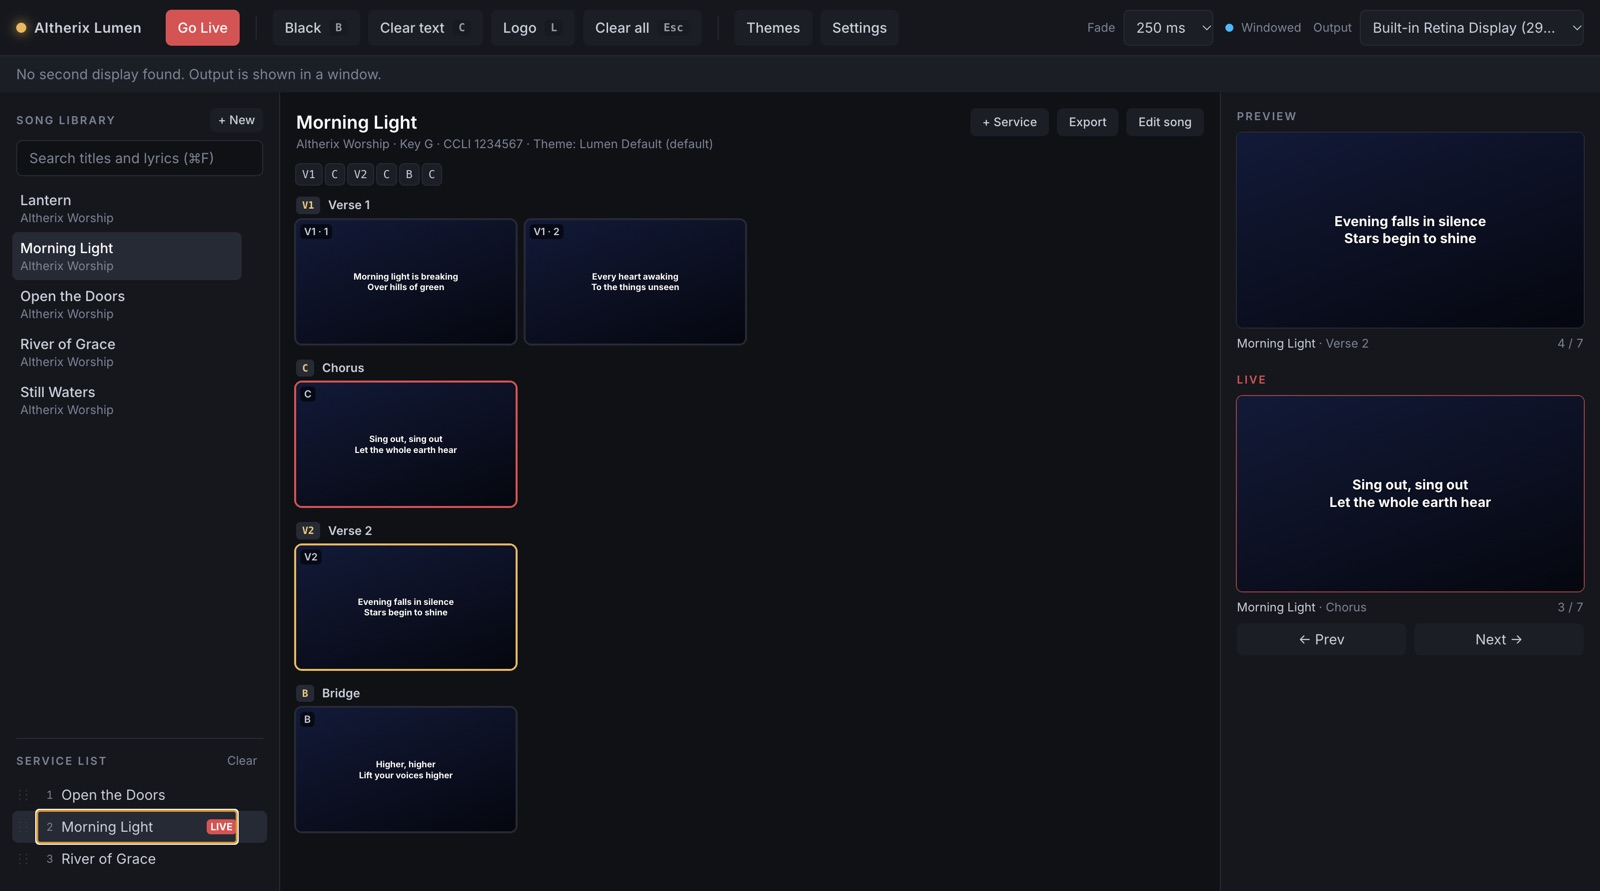
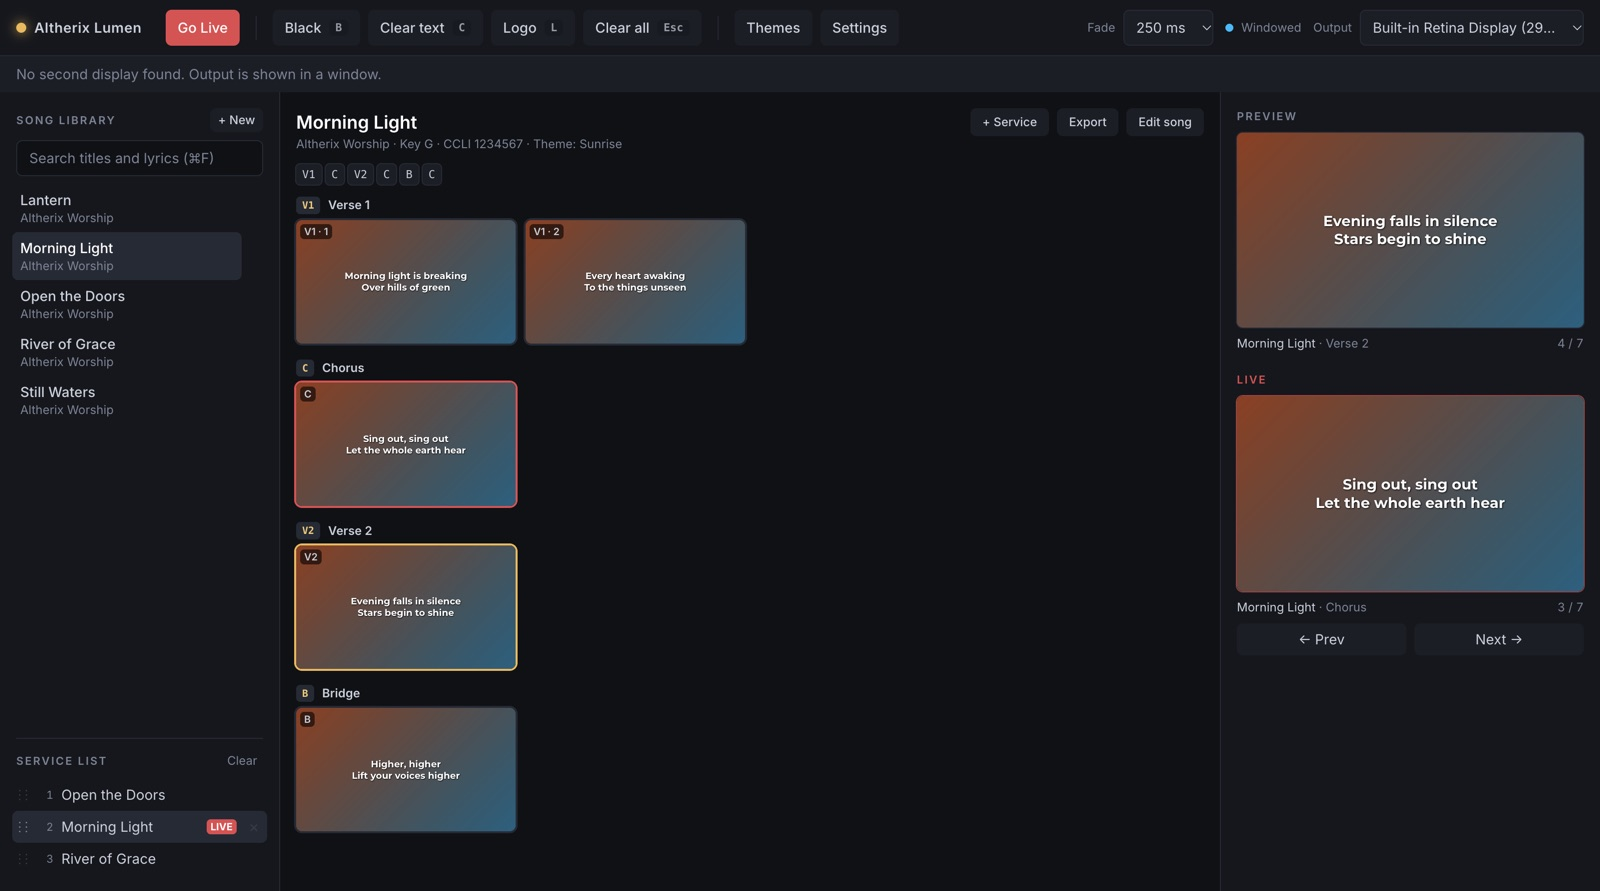
Products: full Lumen section with four screenshots and how a Sunday works

diff --git a/products/index.html b/products/index.html
@@ -124,13 +124,28 @@
       <span class="label">Early access · Download</span>
       <h2 class="h2" id="lumen-h" style="margin-top:1.25rem">Lumen <span class="mute">by Altherix</span></h2>
       <p class="statement">The words on the screen, exactly when the congregation needs them.</p>
-      <p class="lede" style="margin-top:1.25rem">Lumen is lyrics projection software for churches. Build the song list for the service, then move through each song slide by slide on a projector or TV. It runs on macOS and Windows and needs no internet connection.</p>
-      <div class="btns" style="margin-top:2rem"><a class="btn btn-p" href="/downloads/">Download Lumen</a></div>
-      <p class="meta" style="margin-top:.9rem">Free to try. Licences from Altherix.</p>
+      <p class="lede" style="margin-top:1.25rem">Lumen is lyrics projection software for churches. Build today's service from your song library, then move through each song slide by slide on a projector or TV. It runs on macOS and Windows, and works fully offline: no account, no internet, no subscription server.</p>
+      <div class="btns" style="margin-top:2rem"><a class="btn btn-p" href="/downloads/">Download Lumen</a><a class="btn btn-s" href="mailto:contact@altherix.in?subject=Altherix%20Lumen%20licence&amp;body=Hello%20Altherix%20team%2C%0A%0AWe%27d%20like%20to%20know%20more%20about%20Altherix%20Lumen%20licences.%0A%0AChurch%20or%20organisation%3A%0ACity%20and%20country%3A%0ANumber%20of%20computers%3A%0A%0AThank%20you%2C">Ask about licences</a></div>
+      <p class="meta" style="margin-top:.9rem">Free to try with every feature. A licence removes the small “Unlicensed” mark.</p>
     </div>
     <div class="grid2 rv" style="align-self:start"><div><h3 class="h3">Songs in seconds</h3><p class="body">Paste lyrics from anywhere and each verse becomes a slide. Website clutter is removed for you. Search every title and lyric instantly.</p></div><div><h3 class="h3">Built for the live moment</h3><p class="body">A service list for today, a preview of what comes next, and Space, arrow keys or a presentation clicker to move on. A reused chorus is never duplicated.</p></div><div><h3 class="h3">Looks right on any screen</h3><p class="body">Themes with colour, gradient, image or looping video backgrounds. Text shrinks to fit and stays sharp from 1080p to 4K.</p></div><div><h3 class="h3">Calm when things go wrong</h3><p class="body">Black screen, clear text and logo at a keypress. If the projector cable is pulled, the output moves to a window instead of crashing.</p></div></div>
   </div>
-  <div style="margin:clamp(48px,6vw,80px) 0 0"><figure class="shot rv"><div class="shot-frame" aria-hidden="false"><picture><source type="image/webp" srcset="/assets/img/lumen-operator-800.webp 800w, /assets/img/lumen-operator-1600.webp 1600w" sizes="(min-width:1240px) 1160px, 100vw"><img src="/assets/img/lumen-operator-1600.jpg" width="1600" height="891" alt="Altherix Lumen operator window: a song library and today&#x27;s service list on the left, the slides of the selected song grouped by verse and chorus in the middle, and the preview and live screens on the right." loading="lazy" decoding="async"></picture></div><figcaption class="meta">Operator view: library, service list, slides, preview and live (demo songs)</figcaption></figure></div>
+  <div class="shots-2" style="margin:clamp(48px,6vw,80px) 0 0">
+    <figure class="shot rv"><div class="shot-frame" aria-hidden="false"><picture><source type="image/webp" srcset="/assets/img/lumen-operator-800.webp 800w, /assets/img/lumen-operator-1600.webp 1600w" sizes="(min-width:1000px) 570px, 100vw"><img src="/assets/img/lumen-operator-1600.jpg" width="1600" height="891" alt="Altherix Lumen operator window: a song library and today&#x27;s service list on the left, the slides of the selected song grouped by verse and chorus in the middle, and the preview and live screens on the right." loading="lazy" decoding="async"></picture></div><figcaption class="meta">Operator view: today&#x27;s service, slides by section, preview and live (demo songs)</figcaption></figure>
+    <figure class="shot rv"><div class="shot-frame" aria-hidden="false"><picture><source type="image/webp" srcset="/assets/img/lumen-output-800.webp 800w, /assets/img/lumen-output-1600.webp 1600w" sizes="(min-width:1000px) 570px, 100vw"><img src="/assets/img/lumen-output-1600.jpg" width="1600" height="868" alt="The projected screen: two lines of lyrics in large white text on a warm sunrise background, with the song title, copyright and CCLI number in small text at the bottom." loading="lazy" decoding="async"></picture></div><figcaption class="meta">What the congregation sees: theme with an image background and a copyright footer</figcaption></figure>
+    <figure class="shot rv"><div class="shot-frame" aria-hidden="false"><picture><source type="image/webp" srcset="/assets/img/lumen-editor-800.webp 800w, /assets/img/lumen-editor-1600.webp 1600w" sizes="(min-width:1000px) 570px, 100vw"><img src="/assets/img/lumen-editor-1600.jpg" width="1600" height="891" alt="Lumen song editor: song details on the left, lyrics pasted from a website in the middle, and the four slides it made on the right, with a note that website text was removed." loading="lazy" decoding="async"></picture></div><figcaption class="meta">Paste lyrics from a website: each stanza becomes a slide and clutter is removed</figcaption></figure>
+    <figure class="shot rv"><div class="shot-frame" aria-hidden="false"><picture><source type="image/webp" srcset="/assets/img/lumen-themes-800.webp 800w, /assets/img/lumen-themes-1600.webp 1600w" sizes="(min-width:1000px) 570px, 100vw"><img src="/assets/img/lumen-themes-1600.jpg" width="1600" height="891" alt="Lumen theme editor: a list of themes, a large live preview, and settings for background image, darkening, font, size, alignment, margins and shadow." loading="lazy" decoding="async"></picture></div><figcaption class="meta">Theme editor: colour, gradient, image or video backgrounds and full text styling</figcaption></figure>
+  </div>
+</div></section>
+
+<section class="sec" aria-labelledby="lumen-how-h"><div class="ct two">
+  <div class="rv">
+    <span class="label">How a Sunday works</span>
+    <h2 class="h2" id="lumen-how-h" style="margin-top:1.25rem">Plan it on Saturday. <span class="mute">Press Space on Sunday.</span></h2>
+    <div class="grid2" style="margin-top:2rem"><div><h3 class="h3">Your songs stay yours</h3><p class="body">Everything lives on your computer: no account, no internet, no tracking. Back up the whole library to one file and restore it anywhere.</p></div><div><h3 class="h3">Bring your library</h3><p class="body">Import plain text files in bulk, and export to text or JSON whenever you like.</p></div></div>
+    <p class="meta" style="margin-top:1.5rem">Songs, themes and media stay on your computer. Lumen makes no network connections and collects no data. You are responsible for your own song copyright licence, such as CCLI; Lumen shows the CCLI number in the footer.</p>
+  </div>
+  <ol class="steps rv"><li><span class="idx">01</span><span><b>Add your songs</b>Type them, paste them from a website, or import a folder of text files. Tag verses and choruses if you like, and set the order they're sung in.</span></li><li><span class="idx">02</span><span><b>Build today's service</b>Add songs to the service list and drag them into order. It's saved, so a restart mid-service loses nothing.</span></li><li><span class="idx">03</span><span><b>Choose the look</b>Pick a theme for the church, or a different one per song, with your own background image or looping video.</span></li><li><span class="idx">04</span><span><b>Run it live</b>Space, the arrow keys or a presentation clicker move through each song in sung order, then on to the next song.</span></li><li><span class="idx">05</span><span><b>Handle the moment</b>B blanks the screen, C clears the words but keeps the background, L shows your logo, and Esc clears everything.</span></li></ol>
 </div></section>
 
 <section class="sec" id="mandate" aria-labelledby="mandate-h"><div class="ct">

diff --git a/_build/build.py b/_build/build.py
@@ -203,7 +203,7 @@ IMG = {  # name: (width, height) of the 1600px version
     "office-v2": (1600, 859), "cms-overview-v2": (1600, 909), "cms-leaders-v2": (1600, 767),
     "missions-dashboard-v2": (1600, 470), "codegate-test": (1600, 955), "codegate-admin": (1600, 955),
     "art-software": (1111, 941), "art-modernization": (1600, 901), "art-ai": (1600, 901), "art-integration": (1600, 901),
-    "art-cloud": (972, 881), "bc-erp": (1060, 596), "hotel-ops": (700, 338), **{f"hrms-{n}": (1600, 870) for n in ["dashboard", "attendance", "payslip", "tasks"]}, "johnson-suit": (800, 1000), "art-codegate": (1600, 901), "art-remote": (1600, 900), "art-404": (1600, 900), "lumen-operator": (1600, 891),
+    "art-cloud": (972, 881), "bc-erp": (1060, 596), "hotel-ops": (700, 338), **{f"hrms-{n}": (1600, 870) for n in ["dashboard", "attendance", "payslip", "tasks"]}, "johnson-suit": (800, 1000), "art-codegate": (1600, 901), "art-remote": (1600, 900), "art-404": (1600, 900), "lumen-operator": (1600, 891), "lumen-editor": (1600, 891), "lumen-themes": (1600, 891), "lumen-output": (1600, 868),
     **{f"ind-{n}": (500, 500) for n in ["manufacturing", "healthcare", "finance", "education", "logistics", "global"]},
 }
 
@@ -801,6 +801,13 @@ LUMEN_FEATS = [
     ("Your songs stay yours", "Everything lives on your computer: no account, no internet, no tracking. Back up the whole library to one file and restore it anywhere."),
     ("Bring your library", "Import plain text files in bulk, and export to text or JSON whenever you like."),
 ]
+LUMEN_FLOW = [
+    ("Add your songs", "Type them, paste them from a website, or import a folder of text files. Tag verses and choruses if you like, and set the order they're sung in."),
+    ("Build today's service", "Add songs to the service list and drag them into order. It's saved, so a restart mid-service loses nothing."),
+    ("Choose the look", "Pick a theme for the church, or a different one per song, with your own background image or looping video."),
+    ("Run it live", "Space, the arrow keys or a presentation clicker move through each song in sung order, then on to the next song."),
+    ("Handle the moment", "B blanks the screen, C clears the words but keeps the background, L shows your logo, and Esc clears everything."),
+]
 LUMEN_SHOT_ALT = ("Altherix Lumen operator window: a song library and today's service list on the left, the slides of the "
                   "selected song grouped by verse and chorus in the middle, and the preview and live screens on the right.")
 LUMEN_LD = {"@context": "https://schema.org", "@type": "SoftwareApplication", "name": "Altherix Lumen", "url": SITE + "/downloads/",
@@ -901,6 +908,7 @@ def products():
                ("Test", "Candidates solve real-world problems in a browser code editor, with sample tests they can run."),
                ("Grade", "One click runs the hidden tests and AI-grades every answer."),
                ("Shortlist", "Rank candidates by score, review the flags, and use the generated questions on a short follow-up call.")]
+    lumen_mail = mail("Altherix Lumen licence", "Hello Altherix team,\n\nWe'd like to know more about Altherix Lumen licences.\n\nChurch or organisation:\nCity and country:\nNumber of computers:\n\nThank you,")
     hr_mail = mail("HRMS", "Hello Altherix team,\n\nI'd like to know more about HRMS.\n\nCompany:\nTeam size:\nWhat you use today:\n\nThank you,")
     hr_feats = [("Attendance and leave", "Clock in and out, with approvals through the reporting line. Leave accrues monthly from each person's real start date, under a policy you can edit, with your own holiday calendar."),
                 ("Time and tasks", "Create projects, assign tasks and log time against them. Interns see only the projects they're assigned to."),
@@ -1007,13 +1015,28 @@ def products():
       <span class="label">Early access · Download</span>
       <h2 class="h2" id="lumen-h" style="margin-top:1.25rem">Lumen <span class="mute">by Altherix</span></h2>
       <p class="statement">The words on the screen, exactly when the congregation needs them.</p>
-      <p class="lede" style="margin-top:1.25rem">Lumen is lyrics projection software for churches. Build the song list for the service, then move through each song slide by slide on a projector or TV. It runs on macOS and Windows and needs no internet connection.</p>
-      <div class="btns" style="margin-top:2rem"><a class="btn btn-p" href="/downloads/">Download Lumen</a></div>
-      <p class="meta" style="margin-top:.9rem">Free to try. Licences from Altherix.</p>
+      <p class="lede" style="margin-top:1.25rem">Lumen is lyrics projection software for churches. Build today's service from your song library, then move through each song slide by slide on a projector or TV. It runs on macOS and Windows, and works fully offline: no account, no internet, no subscription server.</p>
+      <div class="btns" style="margin-top:2rem"><a class="btn btn-p" href="/downloads/">Download Lumen</a><a class="btn btn-s" href="{lumen_mail}">Ask about licences</a></div>
+      <p class="meta" style="margin-top:.9rem">Free to try with every feature. A licence removes the small “Unlicensed” mark.</p>
     </div>
     <div class="grid2 rv" style="align-self:start">{''.join(f'<div><h3 class="h3">{t}</h3><p class="body">{d}</p></div>' for t, d in LUMEN_FEATS[:4])}</div>
   </div>
-  <div style="margin:clamp(48px,6vw,80px) 0 0">{shot("lumen-operator", LUMEN_SHOT_ALT, "Operator view: library, service list, slides, preview and live (demo songs)")}</div>
+  <div class="shots-2" style="margin:clamp(48px,6vw,80px) 0 0">
+    {shot("lumen-operator", LUMEN_SHOT_ALT, "Operator view: today's service, slides by section, preview and live (demo songs)", "(min-width:1000px) 570px, 100vw")}
+    {shot("lumen-output", "The projected screen: two lines of lyrics in large white text on a warm sunrise background, with the song title, copyright and CCLI number in small text at the bottom.", "What the congregation sees: theme with an image background and a copyright footer", "(min-width:1000px) 570px, 100vw")}
+    {shot("lumen-editor", "Lumen song editor: song details on the left, lyrics pasted from a website in the middle, and the four slides it made on the right, with a note that website text was removed.", "Paste lyrics from a website: each stanza becomes a slide and clutter is removed", "(min-width:1000px) 570px, 100vw")}
+    {shot("lumen-themes", "Lumen theme editor: a list of themes, a large live preview, and settings for background image, darkening, font, size, alignment, margins and shadow.", "Theme editor: colour, gradient, image or video backgrounds and full text styling", "(min-width:1000px) 570px, 100vw")}
+  </div>
+</div></section>
+
+<section class="sec" aria-labelledby="lumen-how-h"><div class="ct two">
+  <div class="rv">
+    <span class="label">How a Sunday works</span>
+    <h2 class="h2" id="lumen-how-h" style="margin-top:1.25rem">Plan it on Saturday. <span class="mute">Press Space on Sunday.</span></h2>
+    <div class="grid2" style="margin-top:2rem">{''.join(f'<div><h3 class="h3">{t}</h3><p class="body">{d}</p></div>' for t, d in LUMEN_FEATS[4:])}</div>
+    <p class="meta" style="margin-top:1.5rem">Songs, themes and media stay on your computer. Lumen makes no network connections and collects no data. You are responsible for your own song copyright licence, such as CCLI; Lumen shows the CCLI number in the footer.</p>
+  </div>
+  <ol class="steps rv">{''.join(f'<li><span class="idx">0{i+1}</span><span><b>{t}</b>{d}</span></li>' for i, (t, d) in enumerate(LUMEN_FLOW))}</ol>
 </div></section>
 
 <section class="sec" id="mandate" aria-labelledby="mandate-h"><div class="ct">
